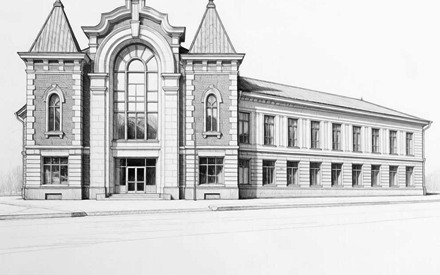
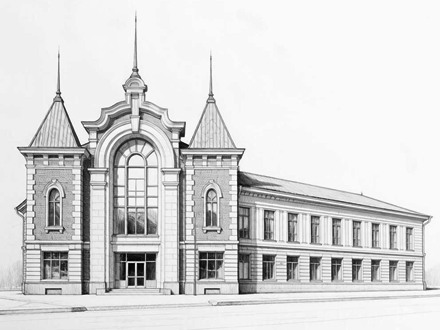
Add files via upload

diff --git a/index.html b/index.html
@@ -73,7 +73,7 @@ a.go:focus-visible{outline:2px solid var(--ink);outline-offset:2px}
 .shot img{display:block;width:100%;height:100%;object-fit:cover;
   filter:contrast(1.06)}
 .shot--a{left:0;top:0;width:clamp(150px,14.6vw,198px);aspect-ratio:5/4}
-.shot--b{left:3%;bottom:-6px;width:clamp(118px,11.5vw,158px);aspect-ratio:8/5}
+.shot--b{left:3%;bottom:-6px;width:clamp(118px,11.5vw,158px);aspect-ratio:4/3}
 .shot--c{right:0;top:34px;width:clamp(158px,16.5vw,226px);aspect-ratio:16/9}
 .shot--d{right:3%;bottom:0;width:clamp(118px,13vw,178px);aspect-ratio:4/3}
 
@@ -101,7 +101,7 @@ a.go:focus-visible{outline:2px solid var(--ink);outline-offset:2px}
 <section class="hero">
   <div class="wrap" style="position:relative">
     <figure class="shot shot--a"><img src="assets/hero-a.jpg" alt="Скетч театра оперы и балета" width="600" height="480"></figure>
-    <figure class="shot shot--b"><img src="assets/hero-b.jpg" alt="Скетч здания краеведческого музея" width="440" height="275"></figure>
+    <figure class="shot shot--b"><img src="assets/hero-b.jpg" alt="Скетч здания краеведческого музея" width="440" height="330"></figure>
     <figure class="shot shot--c"><img src="assets/hero-c.jpg" alt="Скетч Бугринского моста через Обь" width="560" height="315"></figure>
     <figure class="shot shot--d"><img src="assets/hero-d.jpg" alt="Скетч технопарка в Академгородке" width="536" height="402"></figure>
 
